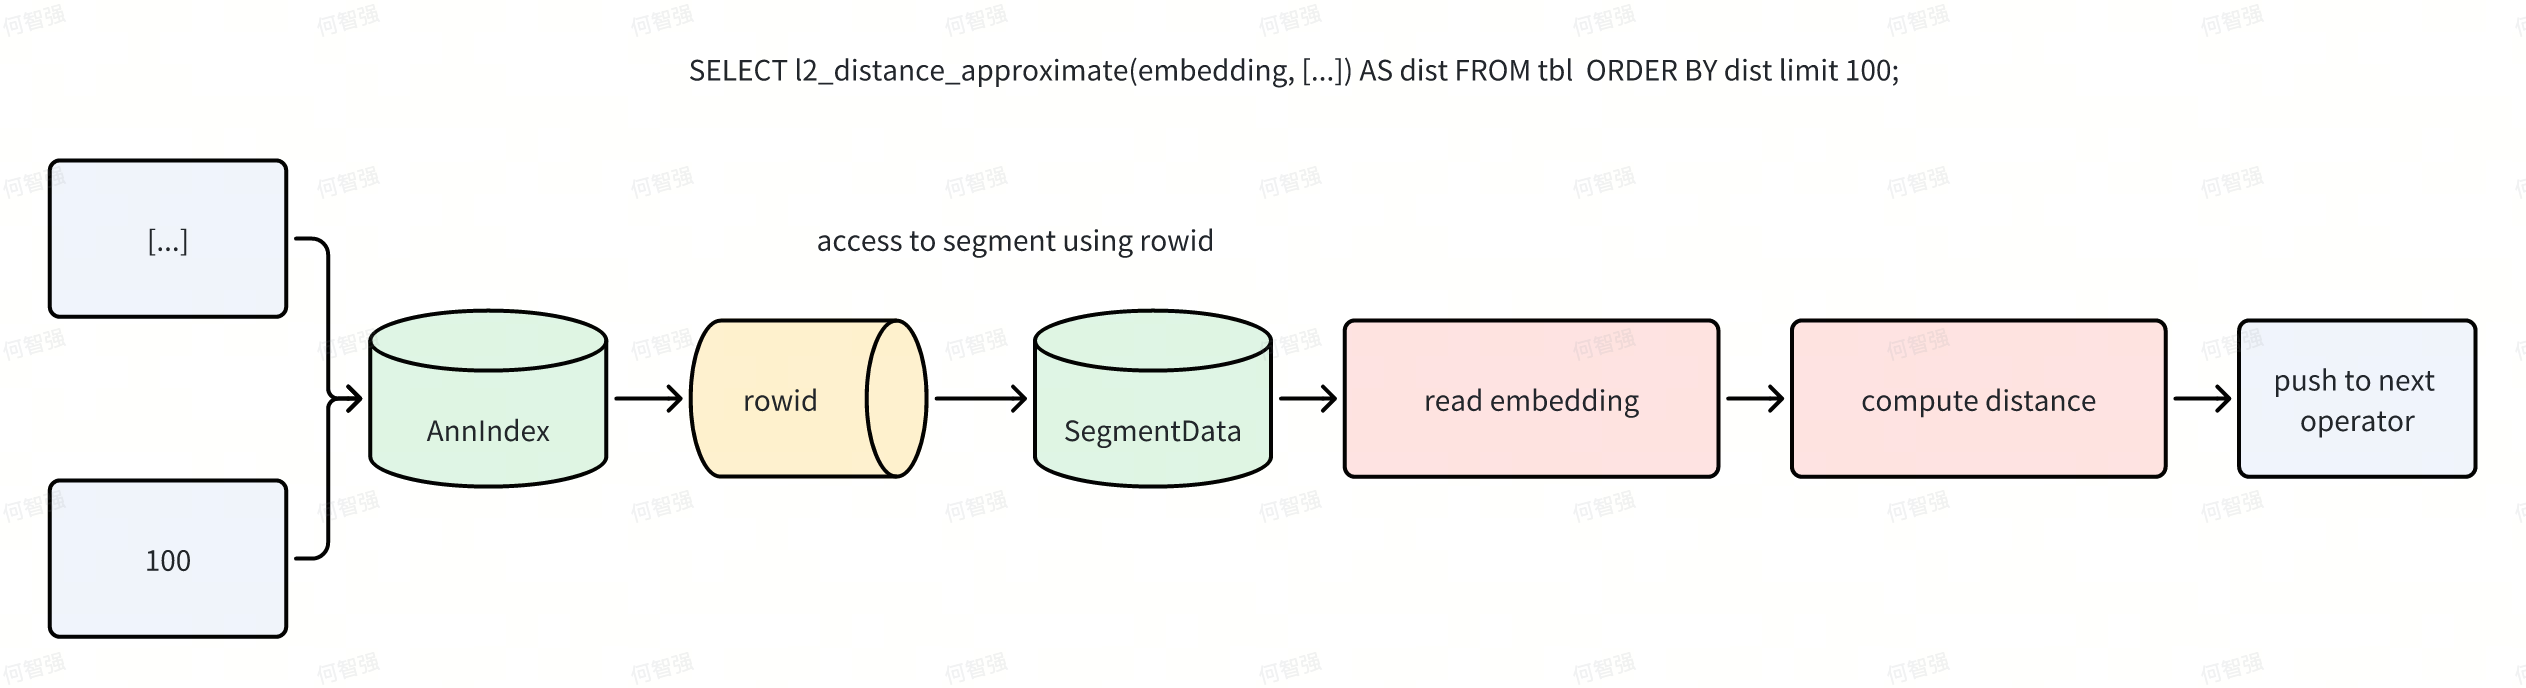
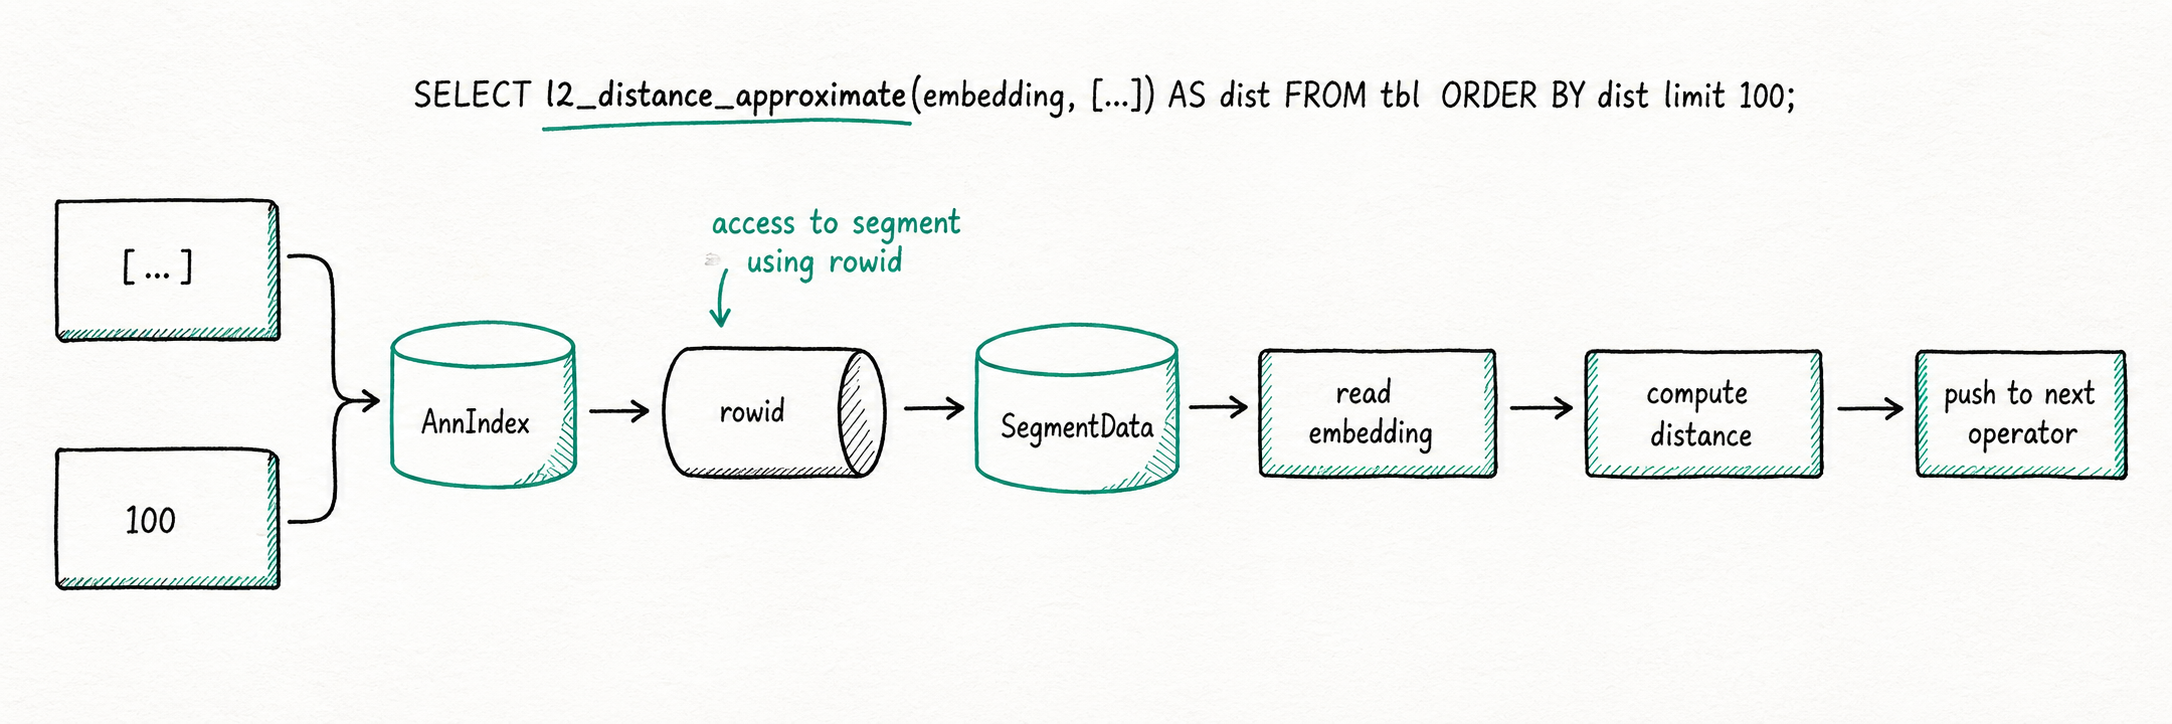
[fix] fix image in behind-index.md

diff --git a/docs-next/ai/vector-search/behind-index.md b/docs-next/ai/vector-search/behind-index.md
@@ -121,11 +121,11 @@ In the traditional path, Doris runs full optimization (parsing, semantic analysi
 Doris implements vector indexes as external (pluggable) indexes, which simplifies management and supports asynchronous builds, but introduces performance challenges such as avoiding redundant computation and IO. ANN indexes can return distances in addition to row IDs. Doris leverages this by short-circuiting distance expressions within the Scan operator via “virtual columns,” and the Ann Index Only Scan fully eliminates distance-related read IO.
 In the naive flow, Scan pushes predicates to the index, the index returns row IDs, and Scan then reads data pages and computes expressions before returning N rows upstream.
 
-![alt text](/images/vector-search/image-3.png)
+![alt text](/images/vector-search/image-3.jpg)
 
 With Index Only Scan applied, the flow becomes:
 
-![alt text](/images/vector-search/image-4.png)
+![alt text](/images/vector-search/image-4.jpg)
 
 For example, `SELECT l2_distance_approximate(embedding, [...]) AS dist FROM tbl ORDER BY dist LIMIT 100;` executes without touching data files.
 

diff --git a/docs/ai/vector-search/behind-index.md b/docs/ai/vector-search/behind-index.md
@@ -121,11 +121,11 @@ In the traditional path, Doris runs full optimization (parsing, semantic analysi
 Doris implements vector indexes as external (pluggable) indexes, which simplifies management and supports asynchronous builds, but introduces performance challenges such as avoiding redundant computation and IO. ANN indexes can return distances in addition to row IDs. Doris leverages this by short-circuiting distance expressions within the Scan operator via “virtual columns,” and the Ann Index Only Scan fully eliminates distance-related read IO.
 In the naive flow, Scan pushes predicates to the index, the index returns row IDs, and Scan then reads data pages and computes expressions before returning N rows upstream.
 
-![alt text](/images/vector-search/image-3.png)
+![alt text](/images/vector-search/image-3.jpg)
 
 With Index Only Scan applied, the flow becomes:
 
-![alt text](/images/vector-search/image-4.png)
+![alt text](/images/vector-search/image-4.jpg)
 
 For example, `SELECT l2_distance_approximate(embedding, [...]) AS dist FROM tbl ORDER BY dist LIMIT 100;` executes without touching data files.
 

diff --git a/i18n/zh-CN/docusaurus-plugin-content-docs-next/current/ai/vector-search/behind-index.md b/i18n/zh-CN/docusaurus-plugin-content-docs-next/current/ai/vector-search/behind-index.md
@@ -122,11 +122,11 @@ FAISS_PRAGMA_IMPRECISE_FUNCTION_END
 Apache Doris 的向量索引采用外挂方式。外挂索引便于管理与异步构建，但也带来性能挑战：如何避免重复计算与多余 IO。ANN 索引除返回命中行号外，还可返回向量间距离。为高效利用这些额外信息，执行引擎在 Scan 算子阶段对距离相关表达式进行“提前短路”。Doris 通过“虚拟列”机制自动完成该短路，并以 Ann Index Only Scan 完全消除与距离计算相关的读 IO。
 在朴素流程中，Scan 将谓词下推至索引，索引返回行号；随后 Scan 按行号读取数据页（Data Page），再计算表达式并向上返回 N 行结果。
 
-![alt text](/images/vector-search/image-3.png)
+![alt text](/images/vector-search/image-3.jpg)
 
 应用 Index Only Scan 后，流程变为：
 
-![alt text](/images/vector-search/image-4.png)
+![alt text](/images/vector-search/image-4.jpg)
 
 例如 `SELECT l2_distance_approximate(embedding, [...]) AS dist FROM tbl ORDER BY dist LIMIT 100;`，执行过程将不再触发数据文件 IO。
 

diff --git a/i18n/zh-CN/docusaurus-plugin-content-docs/current/ai/vector-search/behind-index.md b/i18n/zh-CN/docusaurus-plugin-content-docs/current/ai/vector-search/behind-index.md
@@ -122,11 +122,11 @@ FAISS_PRAGMA_IMPRECISE_FUNCTION_END
 Apache Doris 的向量索引采用外挂方式。外挂索引便于管理与异步构建，但也带来性能挑战：如何避免重复计算与多余 IO。ANN 索引除返回命中行号外，还可返回向量间距离。为高效利用这些额外信息，执行引擎在 Scan 算子阶段对距离相关表达式进行“提前短路”。Doris 通过“虚拟列”机制自动完成该短路，并以 Ann Index Only Scan 完全消除与距离计算相关的读 IO。
 在朴素流程中，Scan 将谓词下推至索引，索引返回行号；随后 Scan 按行号读取数据页（Data Page），再计算表达式并向上返回 N 行结果。
 
-![alt text](/images/vector-search/image-3.png)
+![alt text](/images/vector-search/image-3.jpg)
 
 应用 Index Only Scan 后，流程变为：
 
-![alt text](/images/vector-search/image-4.png)
+![alt text](/images/vector-search/image-4.jpg)
 
 例如 `SELECT l2_distance_approximate(embedding, [...]) AS dist FROM tbl ORDER BY dist LIMIT 100;`，执行过程将不再触发数据文件 IO。
 

diff --git a/i18n/zh-CN/docusaurus-plugin-content-docs/version-4.x/ai/vector-search/behind-index.md b/i18n/zh-CN/docusaurus-plugin-content-docs/version-4.x/ai/vector-search/behind-index.md
@@ -122,11 +122,11 @@ FAISS_PRAGMA_IMPRECISE_FUNCTION_END
 Apache Doris 的向量索引采用外挂方式。外挂索引便于管理与异步构建，但也带来性能挑战：如何避免重复计算与多余 IO。ANN 索引除返回命中行号外，还可返回向量间距离。为高效利用这些额外信息，执行引擎在 Scan 算子阶段对距离相关表达式进行“提前短路”。Doris 通过“虚拟列”机制自动完成该短路，并以 Ann Index Only Scan 完全消除与距离计算相关的读 IO。
 在朴素流程中，Scan 将谓词下推至索引，索引返回行号；随后 Scan 按行号读取数据页（Data Page），再计算表达式并向上返回 N 行结果。
 
-![alt text](/images/vector-search/image-3.png)
+![alt text](/images/vector-search/image-3.jpg)
 
 应用 Index Only Scan 后，流程变为：
 
-![alt text](/images/vector-search/image-4.png)
+![alt text](/images/vector-search/image-4.jpg)
 
 例如 `SELECT l2_distance_approximate(embedding, [...]) AS dist FROM tbl ORDER BY dist LIMIT 100;`，执行过程将不再触发数据文件 IO。
 

diff --git a/versioned_docs/version-4.x/ai/vector-search/behind-index.md b/versioned_docs/version-4.x/ai/vector-search/behind-index.md
@@ -121,11 +121,11 @@ In the traditional path, Doris runs full optimization (parsing, semantic analysi
 Doris implements vector indexes as external (pluggable) indexes, which simplifies management and supports asynchronous builds, but introduces performance challenges such as avoiding redundant computation and IO. ANN indexes can return distances in addition to row IDs. Doris leverages this by short-circuiting distance expressions within the Scan operator via “virtual columns,” and the Ann Index Only Scan fully eliminates distance-related read IO.
 In the naive flow, Scan pushes predicates to the index, the index returns row IDs, and Scan then reads data pages and computes expressions before returning N rows upstream.
 
-![alt text](/images/vector-search/image-3.png)
+![alt text](/images/vector-search/image-3.jpg)
 
 With Index Only Scan applied, the flow becomes:
 
-![alt text](/images/vector-search/image-4.png)
+![alt text](/images/vector-search/image-4.jpg)
 
 For example, `SELECT l2_distance_approximate(embedding, [...]) AS dist FROM tbl ORDER BY dist LIMIT 100;` executes without touching data files.
 